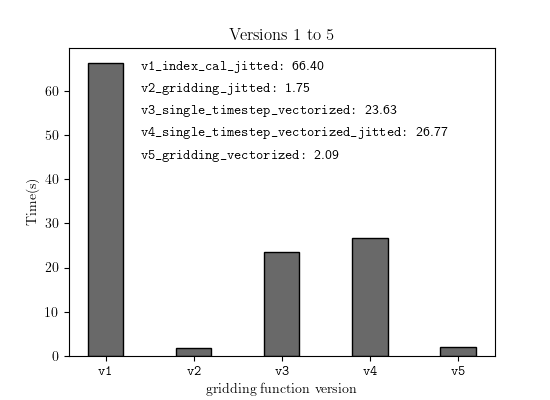
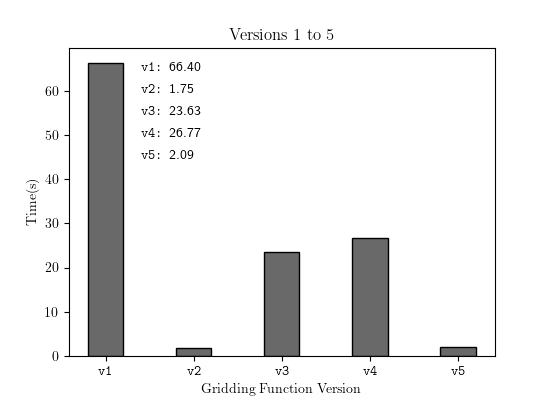
update notebook

diff --git a/python/plots/plot.py b/python/plots/plot.py
@@ -5,58 +5,83 @@ import matplotlib.pyplot as plt
 
 plt.rcParams.update({"text.usetex": True})
 
-
-version_original = [r"\texttt{opening\_dataset}", r"\texttt{gridding}", r"\texttt{fourier_transform}"]
-times_original = [0.0196, 232.0669, 0.3949]
-colors_original = ["dimgray" for _ in range(len(times_original))]
-
-versions_no_dist = [r"\texttt{v1}", r"\texttt{v2}", r"\texttt{v3}", r"\texttt{v4}", r"\texttt{v5}"]
-times_no_dist = [66.40, 1.75, 23.63, 26.77, 2.09]
-colors_no_dist = ["dimgray" for _ in range(len(times_no_dist))]
-
-v6_nworkers = ["1", "2", "4", "8", "16"]
-times_v6 = [2.16, 1.68, 1.61, 1.99, 3.34]
-colors_v6 = ["dimgray" for _ in range(len(times_v6))]
-
-
 def original():
+    version_original = [r"\texttt{opening\_dataset}", r"\texttt{gridding}", r"\texttt{fourier_transform}"]
+    times_original = [0.0196, 232.0669, 0.3949]
+
     fig, ax = plt.subplots(figsize=(5.5, 4))
-    bars = ax.bar(version_original, times_original, width=0.2, edgecolor="black", linewidth=1, color=colors_original)
+    bars = ax.bar(version_original, times_original, width=0.2, edgecolor="black", linewidth=1, color="dimgray")
     ax.set_title(r"\rmfamily{Original Version}")
     ax.set_ylabel(r"\rmfamily{Time(s)}")
     ax.set_yscale("log")
-    ax.text(-0.1, max(times_original)-100, r'\texttt{opening\_dataset:} 0.02', ha='left', va='center', fontsize=10, color='black')
-    ax.text(-0.1, max(times_original)-168, r'\texttt{gridding:} 232.06', ha='left', va='center', fontsize=10, color='black')
+    ax.text(-0.1, max(times_original)-100, r'\texttt{opening\_dataset:} 0.02',   ha='left', va='center', fontsize=10, color='black')
+    ax.text(-0.1, max(times_original)-168, r'\texttt{gridding:} 232.06',         ha='left', va='center', fontsize=10, color='black')
     ax.text(-0.1, max(times_original)-200, r'\texttt{fourier\_transform:} 0.40', ha='left', va='center', fontsize=10, color='black')
     plt.savefig("v0_original.png")
 
 def v1tov5():
+    versions_no_dist = [r"\texttt{v1}", r"\texttt{v2}", r"\texttt{v3}", r"\texttt{v4}", r"\texttt{v5}"]
+    times_no_dist = [66.40, 1.75, 23.63, 26.77, 2.09]
+
     fig, ax = plt.subplots(figsize=(5.5, 4))
-    bars = ax.bar(versions_no_dist, times_no_dist, width=0.4, edgecolor="black", linewidth=1, color=colors_no_dist)
+    bars = ax.bar(versions_no_dist, times_no_dist, width=0.4, edgecolor="black", linewidth=1, color="dimgray")
     ax.set_title(r"\rmfamily{Versions 1 to 5}")
-    ax.set_xlabel(r"\rmfamily{gridding function version}")
+    ax.set_xlabel(r"\rmfamily{Gridding Function Version}")
     ax.set_ylabel(r"\rmfamily{Time(s)}")
-    ax.text(0.4, max(times_no_dist)-1, r'\texttt{v1_index_cal_jitted:} 66.40', ha='left', va='center', fontsize=10, color='black')
-    ax.text(0.4, max(times_no_dist)-6, r'\texttt{v2_gridding_jitted:} 1.75', ha='left', va='center', fontsize=10, color='black')
-    ax.text(0.4, max(times_no_dist)-11, r'\texttt{v3_single_timestep_vectorized:} 23.63', ha='left', va='center', fontsize=10, color='black')
-    ax.text(0.4, max(times_no_dist)-16, r'\texttt{v4_single_timestep_vectorized_jitted:} 26.77', ha='left', va='center', fontsize=10, color='black')
-    ax.text(0.4, max(times_no_dist)-21, r'\texttt{v5_gridding_vectorized:} 2.09', ha='left', va='center', fontsize=10, color='black')
+    ax.text(0.4, max(times_no_dist)-1, r'\texttt{v1:} 66.40',  ha='left', va='center', fontsize=10, color='black')
+    ax.text(0.4, max(times_no_dist)-6, r'\texttt{v2:} 1.75',   ha='left', va='center', fontsize=10, color='black')
+    ax.text(0.4, max(times_no_dist)-11, r'\texttt{v3:} 23.63', ha='left', va='center', fontsize=10, color='black')
+    ax.text(0.4, max(times_no_dist)-16, r'\texttt{v4:} 26.77', ha='left', va='center', fontsize=10, color='black')
+    ax.text(0.4, max(times_no_dist)-21, r'\texttt{v5:} 2.09',  ha='left', va='center', fontsize=10, color='black')
     plt.savefig("v1tov5.png")
 
 
 def v6():
+    v6_nworkers = ["1", "2", "4", "8", "16"]
+    times_v6 = [2.16, 1.68, 1.61, 1.99, 3.34]
+
     fig, ax = plt.subplots(figsize=(5.5, 4))
     bars = ax.bar(v6_nworkers, times_v6, width=0.4, edgecolor="black", linewidth=1, color="dimgray")
-    ax.set_title(r"\rmfamily{Version 6}")
-    ax.set_xlabel(r"\rmfamily{number of threads}")
+    ax.set_title(r"\rmfamily{Version 6: Multithreaded}")
+    ax.set_xlabel(r"\rmfamily{Number of Threads}")
     ax.set_ylabel(r"\rmfamily{Time(s)}")
-    ax.text(-0.21, max(times_v6)-0.1, r'1\ \ \ thread: 2.16', ha='left', va='center', fontsize=10, color='black')
-    ax.text(-0.21, max(times_v6)-0.3, r'2\ \ threads: 1.68', ha='left', va='center', fontsize=10, color='black')
-    ax.text(-0.21, max(times_v6)-0.5, r'4\ \ threads: 1.61', ha='left', va='center', fontsize=10, color='black')
-    ax.text(-0.21, max(times_v6)-0.7, r'8\ \ threads: 1.99', ha='left', va='center', fontsize=10, color='black')
-    ax.text(-0.21, max(times_v6)-0.9, r'16 threads: 3.34', ha='left', va='center', fontsize=10, color='black')
+    ax.text(-0.21, max(times_v6)-0.1, r'1 \ Ts: 2.16', ha='left', va='center', fontsize=10, color='black')
+    ax.text(-0.21, max(times_v6)-0.3, r'2 \ Ts: 1.68', ha='left', va='center', fontsize=10, color='black')
+    ax.text(-0.21, max(times_v6)-0.5, r'4 \ Ts: 1.61', ha='left', va='center', fontsize=10, color='black')
+    ax.text(-0.21, max(times_v6)-0.7, r'8 \ Ts: 1.99', ha='left', va='center', fontsize=10, color='black')
+    ax.text(-0.21, max(times_v6)-0.9, r'16 Ts: 3.34',  ha='left', va='center', fontsize=10, color='black')
     plt.savefig("v6.png")
 
+
+def v7v8():
+    v7_nmpi = ["1", "2", "4", "8", "16"]
+    v8_nmpi = ["1", "2", "4", "8", "16"]
+    times_v7 = [94.56, 18.37, 6.28, 3.84, 3.61]
+    times_v8 = [34.29, 24.25, 11.65, 9.02, 11.38]
+
+    fig, (ax1, ax2) = plt.subplots(nrows=1, ncols=2, figsize=(10, 4))
+    bars1 = ax1.bar(v7_nmpi, times_v7, width=0.4, edgecolor="black", linewidth=1, color="dimgray")
+    ax1.set_title(r"\rmfamily{Version 7: MPI/Timsteps}")
+    ax1.set_xlabel(r"\rmfamily{Number of MPI Processes}")
+    ax1.set_ylabel(r"\rmfamily{Time(s)}")
+    ax1.text(3.2, max(times_v7)-2, r'1 \ Ps: 94.56', ha='left', va='center', fontsize=10, color='black')
+    ax1.text(3.2, max(times_v7)-7, r'2 \ Ps: 18.37', ha='left', va='center', fontsize=10, color='black')
+    ax1.text(3.2, max(times_v7)-13, r'4 \ Ps: 6.28', ha='left', va='center', fontsize=10, color='black')
+    ax1.text(3.2, max(times_v7)-19, r'8 \ Ps: 3.84', ha='left', va='center', fontsize=10, color='black')
+    ax1.text(3.2, max(times_v7)-25, r'16 Ps: 3.61',  ha='left', va='center', fontsize=10, color='black')
+
+    bars2 = ax2.bar(v8_nmpi, times_v8, width=0.4, edgecolor="black", linewidth=1, color="dimgray")
+    ax2.set_title(r"\rmfamily{Version 8: MPI/Baselines}")
+    ax2.set_xlabel(r"\rmfamily{Number of MPI Processes}")
+    ax2.set_ylabel(r"\rmfamily{Time(s)}")
+    ax2.text(3.2, max(times_v8)-1, r'1 \ Ps: 34.29', ha='left', va='center', fontsize=10, color='black')
+    ax2.text(3.2, max(times_v8)-3, r'2 \ Ps: 24.25', ha='left', va='center', fontsize=10, color='black')
+    ax2.text(3.2, max(times_v8)-5, r'4 \ Ps: 11.65', ha='left', va='center', fontsize=10, color='black')
+    ax2.text(3.2, max(times_v8)-7, r'8 \ Ps: 9.02',  ha='left', va='center', fontsize=10, color='black')
+    ax2.text(3.2, max(times_v8)-9, r'16 Ps: 11.38',  ha='left', va='center', fontsize=10, color='black')
+
+    plt.tight_layout()
+    plt.savefig("v7v8.png")
 
 
 def get_plot(func, *args):
@@ -66,7 +91,9 @@ def get_plot(func, *args):
 if __name__ == "__main__":
     funcs_dict = {"original": original,
                   "v1tov5": v1tov5,
-                  "v6": v6}
+                  "v6": v6,
+                  "v7v8": v7v8,
+                  }
     funcs_list = list(funcs_dict.keys())
 
     plot_name = sys.argv[1]
